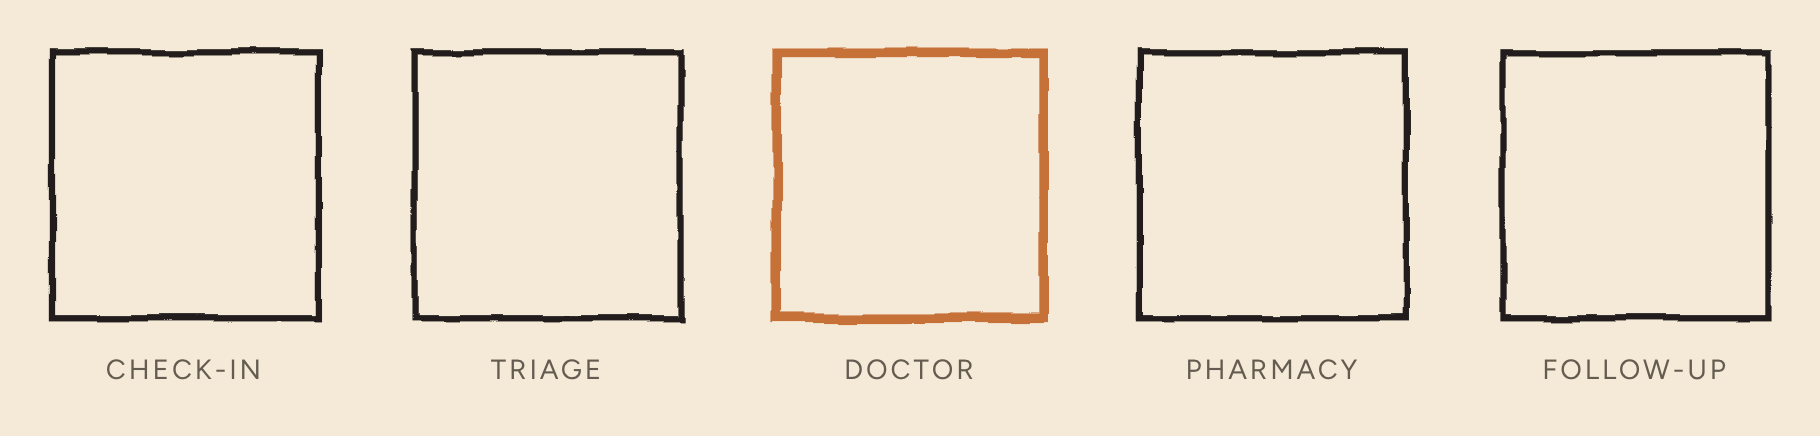
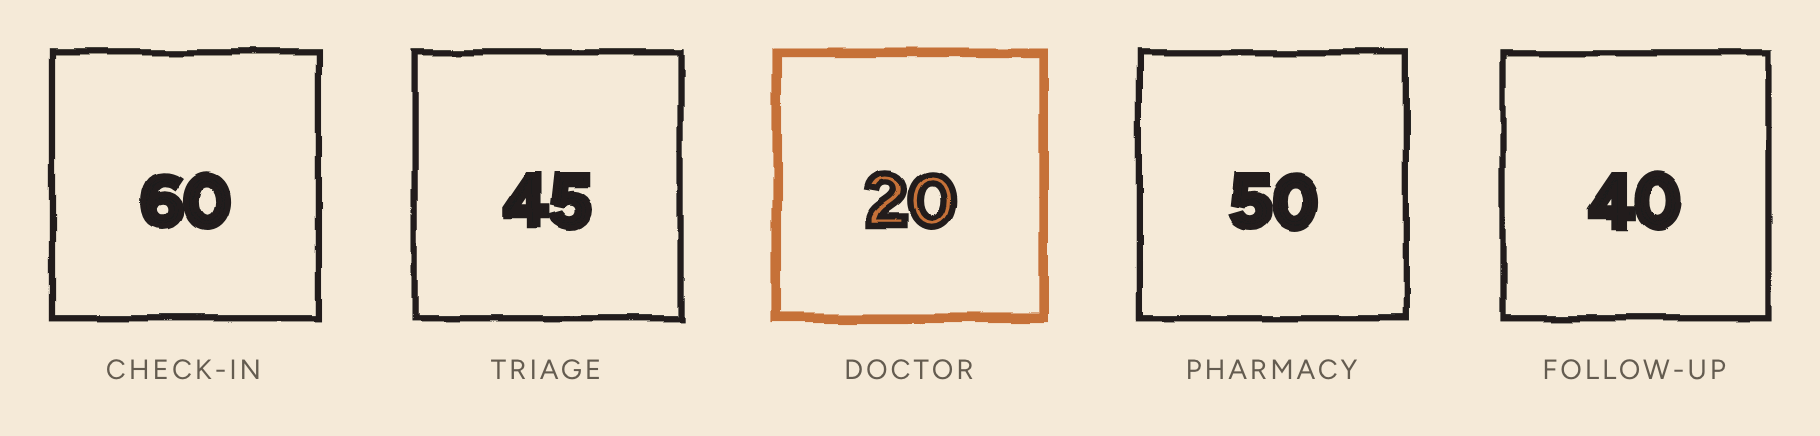
explainers: revise the two plain versions after an editorial pass
- restore the station capacities to the one-hire and constraint-migration
  stills (they were blank boxes; the whole argument is in the numbers) and
  enlarge the new-hire marker
- split the "five diagrams" figure into a before/after pair — five labelled
  sheets, then the resolved map — so "five into one" is visible
- use the frame with the nine replies for the live forum thread; the greyed
  frame for a year later (they were the wrong way round)
- drop the body <h1> that duplicated the front-matter title on both pages
- trim captions that restated the next paragraph; reword the doctor's-day
  captions to match what the stills actually show; rename a repeated heading

Claude-Session: https://claude.ai/code/session_016RyjZo4jfaY4P3bc17rKBx

diff --git a/explainers/01-bottleneck-plain/index.md b/explainers/01-bottleneck-plain/index.md
@@ -6,8 +6,6 @@ date: 2026-08-30
 
 *A plain, non-scrolling version of **[The Wrong Queue](../01-bottleneck/index.html)** — the same words, with the drawings held still instead of built on scroll. Part one of the series; [see all three parts](../).*
 
-## The Wrong Queue
-
 A clinic opens at eight. By noon, sixty people are waiting.
 
 Everyone who works there can tell you exactly where the problem is. They are all pointing at the same desk.
@@ -27,6 +25,10 @@ She is also irrelevant to how many people this clinic helps.
 
 It treats twenty patients a day. It has treated twenty patients a day for four years.
 
+### Five stations, one number
+
+Everyone who comes through passes five stations, in order, and every one has a limit. Check-in can process sixty people a day. Triage, forty-five. The doctor, twenty. Pharmacy, fifty. Follow-up booking, forty.
+
 ![Five stations drawn as boxes in a row — CHECK-IN 60, TRIAGE 45, DOCTOR 20, PHARMACY 50, FOLLOW-UP 40. The doctor's box is circled in orange and a pile of dots has backed up in front of it. To the right, a large orange 20 PER DAY.](img/stations-full.png)
 *Every other station can handle at least twice what the doctor can — so the clinic treats twenty a day. Not forty, which is what it would manage if the doctor's station matched the next tightest one. Twenty.*
 
@@ -42,11 +44,11 @@ The clinic has just been given enough money to hire one more person.
 
 Put them on the front desk, where the queue is: still twenty. Put them on triage: still twenty. Pharmacy: twenty. Follow-up: twenty.
 
-![The same five stations. A new orange figure stands inside the CHECK-IN box; the output counter still reads 20 PER DAY.](img/hire-frontdesk.png)
-*A second pair of hands at check-in. Output: still twenty.*
+![The five stations with their capacities. A new figure, in orange, stands at the CHECK-IN box; the output counter still reads 20 PER DAY.](img/hire-frontdesk.png)
+*The one hire, placed at check-in.*
 
-![The same five stations. The new orange figure now stands inside the DOCTOR box; the output counter reads 26 PER DAY.](img/hire-doctor.png)
-*The same hire, placed on the one station that governs the number. Output moves.*
+![The same five stations. The new figure now stands at the DOCTOR box; the output counter reads 26 PER DAY.](img/hire-doctor.png)
+*The same hire, placed at the doctor.*
 
 There is exactly one place that changes the number, and it is not where the queue is.
 
@@ -78,13 +80,13 @@ We know it is the doctor. So hire another doctor.
 
 Not yet. Watch her day first.
 
-Dr Adeyemi has been here nine years. She stays until seven most evenings writing up notes she had no time to write in the room.
+Dr Adeyemi has been here nine years. She stays until seven most evenings writing up notes she had no time to write in the room. Of her eight-hour day, she sees patients for about six. The other two go on things that do not need a medical degree — re-taking a history the triage nurse already took, hunting for notes, printing forms.
 
-![A bar of eight hour-blocks. Six are open and marked "six hours with patients"; the last two are filled and marked "admin". The count beneath reads 20 patients per day.](img/day-admin.png)
-*Of her eight-hour day, six hours are clinical. The other two go on things that do not need a medical degree.*
+![A bar of eight hour-blocks. Six are open; the last two are filled in grey. The count beneath reads 20 patients per day.](img/day-admin.png)
+*Six of the eight hours are clinical (open); two are lost to admin (grey). Twenty patients in six hours is a shade under eighteen minutes each.*
 
-![The same eight hour-blocks, now all open and outlined in orange — "eight hours with patients, none lost to admin". The count beneath reads 26.](img/day-recovered.png)
-*Give back the two admin hours at the same rate and the same day yields twenty-six — for nothing.*
+![The same eight hour-blocks, now all open and outlined in orange. The count beneath reads 26.](img/day-recovered.png)
+*Give the two admin hours back at the same rate and the same day yields twenty-six — for nothing.*
 
 Six more people a day. Around fifteen hundred a year. The man with the cough is one of them. The cost of this is nothing.
 
@@ -108,18 +110,14 @@ It is not the biggest problem on the list. It is the stuck one. You can work ext
 
 ### It moves
 
-Fix the doctor and the clinic does not become fixed.
+Fix the doctor and the clinic does not become fixed. Get her to fifty a day and follow-up booking, at forty, becomes the constraint. Fix that and it moves to pharmacy. Push far enough and every station inside the building outruns the number of people it serves — at which point the constraint has moved outside the walls, to the hospital that won't take referrals any faster.
 
-![The row of stations with the DOCTOR box highlighted in orange as the constraint.](img/moves-1.png)
-*Start: the doctor sets the number.*
+![The row of stations with the DOCTOR box highlighted in orange.](img/moves-1.png)
 
-![The row of stations with the FOLLOW-UP box now highlighted in orange.](img/moves-2.png)
-*Raise the doctor's throughput and follow-up booking, at forty, becomes the tightest station.*
+![The row of stations with the FOLLOW-UP box highlighted in orange instead.](img/moves-2.png)
 
 ![The row of stations, all in plain ink, with a dashed orange box labelled THE HOSPITAL drawn outside them.](img/moves-out.png)
-*Push far enough and every station inside the building outruns its demand — and the constraint has moved outside the walls.*
-
-Get her to fifty a day and follow-up booking, at forty, becomes the constraint. Fix that and it moves to pharmacy. Push far enough and every station inside the building outruns the number of people it serves — at which point the constraint has moved outside the walls, to the hospital that won't take referrals any faster.
+*The constraint does not get solved; it moves — doctor, then follow-up, then out of the building altogether.*
 
 It is still a constraint. It just now needs an entirely different set of skills to attack.
 
@@ -140,7 +138,7 @@ Breaking one is nearly free. A rule costs nothing to change, next to hiring a do
 
 But you will not find it, because everybody experiences it as normal. A bottleneck machine announces itself: there is a pile of work in front of it. A bottleneck rule has no pile. It hides inside *that's just how it's done*, and it is defended, sincerely, by good people whose own numbers depend on it.
 
-### So how would you ever find one?
+### The guess
 
 So: find the constraint. Put nearly everything into it. Ignore, for now, almost everything else.
 
@@ -167,7 +165,7 @@ And so, somewhere in that building, someone is working through lunch on somethin
 ---
 
 **Next → [The Arrows Nobody Checks](../02-thinking-made-visible/index.html)**
-*Why you would ever draw your reasoning as a tree — and what happens to an argument when you do.*
+*Why you would ever draw your reasoning as a tree — and what happens to an argument when you do. (Scrolling version.)*
 
 ## Methodology
 

diff --git a/explainers/second-renaissance-plain/index.md b/explainers/second-renaissance-plain/index.md
@@ -1,12 +1,10 @@
 ---
 title: The Forum Doesn't Remember, and Doesn't Cumulate — plain version
-description: The forum has more and more contribution. Almost none of it cumulates into insight the movement can use together. A static, non-scrolling telling.
+description: The forum sees more and more contribution. Almost none of it cumulates into insight the movement can use together. A static, non-scrolling telling.
 date: 2026-08-30
 ---
 
 *A plain, non-scrolling version of **[The Forum Doesn't Remember, and Doesn't Cumulate](../second-renaissance/index.html)** — the same words, with the drawings held still instead of built on scroll. Every diagram comes from the Second Renaissance's own analysis. Readable on its own; the method behind it is covered in [the series](../).*
-
-## The Forum Doesn't Remember, and Doesn't Cumulate
 
 The Second Renaissance is a movement for civilizational renewal. Its claim is that our crises are not separate cracks but symptoms of a paradigm in decline, and that a wiser one has to be consciously built rather than waited for.
 
@@ -22,10 +20,12 @@ Call her Maren. Twenty-three, a student in Gothenburg, and she reads more theory
 
 She joins the Second Renaissance forum and posts one paragraph: all of this floats free of any actual place. Start in a neighbourhood somebody actually lives in.
 
-![A forum thread drawn as a column of bars filed by date. Maren stands to the left. Her post sits in the column as a card outlined in orange, captioned "her post: all of this floats free of any actual place".](img/thread-live.png)
-*Her post arrives. Nine people reply. It is a genuinely good conversation.*
+Nine people reply. It is a genuinely good conversation.
 
-![The same column, a year on. Her post is now just another grey bar among the rest; the replies have scrolled up into the run of dated entries.](img/thread-lost.png)
+![A forum thread drawn as a column of bars filed by date. Maren stands to the left. Her post sits in the column as a card outlined and lettered in orange — "her post: all of this floats free of any actual place" — with nine short reply bars indented beneath it.](img/thread-live.png)
+*Her post arrives in the thread, and gathers nine replies.*
+
+![The same column, a year on. Her post is now just another grey bar among the dated run; the replies have merged into it.](img/thread-lost.png)
 *A year later, not one sentence of it has changed what the movement believes.*
 
 ### The same conversation, three times
@@ -73,12 +73,15 @@ Earlier this year it tried something about that.
 
 It took its own written corpus and rewrote the strategy as five linked diagrams: the goal and what it depends on, what is blocking it now, the tensions underneath that, the future being aimed at, and the order things have to happen in.
 
+![Five sheets of paper, labelled GOAL, REALITY, TENSIONS, FUTURE and SEQUENCE.](img/five-sheets.png)
+*The written corpus, sorted into five kinds of question.*
+
 The point is not that they are diagrams. It is that every claim has an address, and the lines between claims are claims too — *this one is necessary for that one* — so the reasoning is exposed and not only the conclusions.
 
 Eight things have to be true at once for a Second Renaissance to be more than an idea. People have to understand the crises as one crisis. Small dense groups have to make the new way of living actually livable. Six more like that, up through institutions and the wise navigation of collapse.
 
-![Five sheets of paper labelled GOAL, REALITY, TENSIONS, FUTURE, SEQUENCE resolve into one map: a goal box at the top and eight condition boxes beneath it, joined by arrows labelled "is necessary for".](img/five-diagrams.png)
-*The written corpus, redrawn as a map where every claim — and every link — is a thing you can point at.*
+![One map: a goal box at the top — "a Second Renaissance that is more than an idea" — and eight condition boxes beneath it, joined by arrows labelled "is necessary for".](img/five-map.png)
+*Redrawn as a map where every claim — and every link between claims — is a thing you can point at.*
 
 *The method behind the five shapes is forty years old and was invented for factories. A companion piece, [Five Shapes](../03-five-shapes/index.html), covers it properly. Nothing here depends on it.*
 
